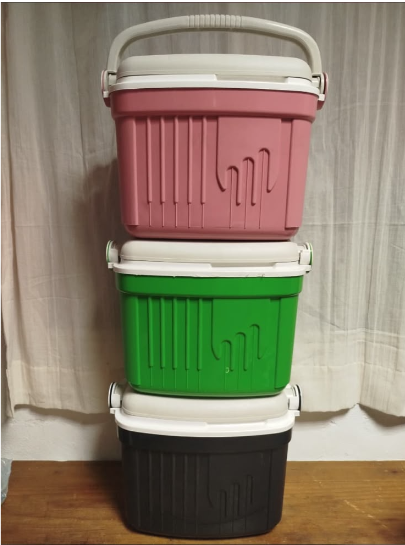
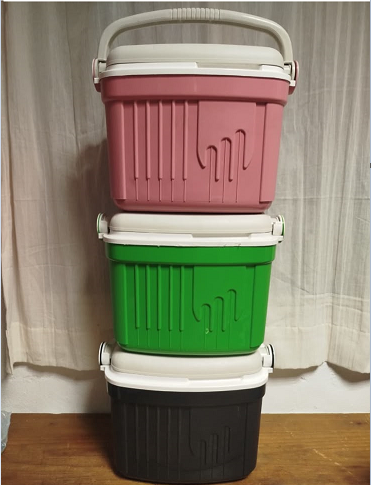
mejoras visuales mobile

diff --git a/src/index.css b/src/index.css
@@ -600,19 +600,20 @@ p {
   border-radius: 4px;
 }
 .product-card__media {
-  aspect-ratio: 1 / 1;
+  aspect-ratio: 4 / 5;
   background: var(--color-cream);
 }
 .product-card__media img {
   width: 100%;
   height: 100%;
   object-fit: cover;
+  object-position: top center;
 }
 .product-card__body {
-  padding: 18px;
+  padding: 14px;
   display: flex;
   flex-direction: column;
-  gap: 8px;
+  gap: 6px;
   flex: 1;
 }
 .product-card__brand {
@@ -660,12 +661,31 @@ p {
     grid-template-columns: repeat(3, 1fr);
   }
 }
+
+@media (max-width: 760px) {
+  .product-card__body h3 {
+    font-size: 0.92rem;
+  }
+  .product-card__desc {
+    display: -webkit-box;
+    -webkit-line-clamp: 2;
+    -webkit-box-orient: vertical;
+    overflow: hidden;
+  }
+  .wa-btn--sm {
+    padding: 8px 12px;
+    font-size: 0.82rem;
+    width: 100%;
+    justify-content: center;
+  }
+}
 @media (max-width: 760px) {
   .products__grid {
     grid-template-columns: repeat(2, 1fr);
+    gap: 14px;
   }
 }
-@media (max-width: 480px) {
+@media (max-width: 380px) {
   .products__grid {
     grid-template-columns: 1fr;
   }
@@ -883,6 +903,7 @@ p {
   width: 100%;
   height: 100%;
   object-fit: cover;
+  object-position: top center;
   transition: transform 0.3s ease;
 }
 .gallery-grid__item:hover img {
@@ -918,12 +939,8 @@ p {
 
 @media (max-width: 760px) {
   .gallery-grid {
-    grid-template-columns: repeat(3, 1fr);
-  }
-}
-@media (max-width: 480px) {
-  .gallery-grid {
     grid-template-columns: repeat(2, 1fr);
+    gap: 10px;
   }
 }
 
